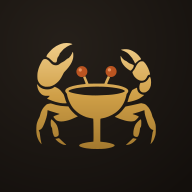
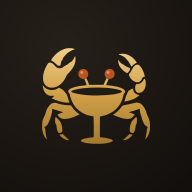
Add files via upload

Changed region(s): [[0.1875, 0.2188, 0.8125, 0.7812]]

diff --git a/index.html b/index.html
@@ -4,10 +4,10 @@
 <meta charset="UTF-8">
 <meta name="viewport" content="width=device-width, initial-scale=1.0, viewport-fit=cover">
 <title>The Codex</title>
-  <link rel="icon" href="favicon-v2.svg" type="image/svg+xml">
-  <link rel="icon" href="favicon-32-v2.png" sizes="32x32" type="image/png">
-  <link rel="icon" href="favicon-16-v2.png" sizes="16x16" type="image/png">
-  <link rel="apple-touch-icon" href="apple-touch-icon-v2.png">
+  <link rel="icon" href="favicon.svg?v=3" type="image/svg+xml">
+  <link rel="icon" href="favicon-32.png?v=3" sizes="32x32" type="image/png">
+  <link rel="icon" href="favicon-16.png?v=3" sizes="16x16" type="image/png">
+  <link rel="apple-touch-icon" href="apple-touch-icon.png?v=3">
   <link rel="manifest" href="site.webmanifest">
   <meta name="theme-color" content="#130f0c">
 

diff --git a/menu.html b/menu.html
@@ -4,10 +4,10 @@
 <meta charset="UTF-8">
 <meta name="viewport" content="width=device-width, initial-scale=1.0">
 <title>The Codex — Menu Builder</title>
-  <link rel="icon" href="favicon.svg" type="image/svg+xml">
-  <link rel="icon" href="favicon-32.png" sizes="32x32" type="image/png">
-  <link rel="icon" href="favicon-16.png" sizes="16x16" type="image/png">
-  <link rel="apple-touch-icon" href="apple-touch-icon.png">
+  <link rel="icon" href="favicon.svg?v=3" type="image/svg+xml">
+  <link rel="icon" href="favicon-32.png?v=3" sizes="32x32" type="image/png">
+  <link rel="icon" href="favicon-16.png?v=3" sizes="16x16" type="image/png">
+  <link rel="apple-touch-icon" href="apple-touch-icon.png?v=3">
   <link rel="manifest" href="site.webmanifest">
   <meta name="theme-color" content="#130f0c">
 
